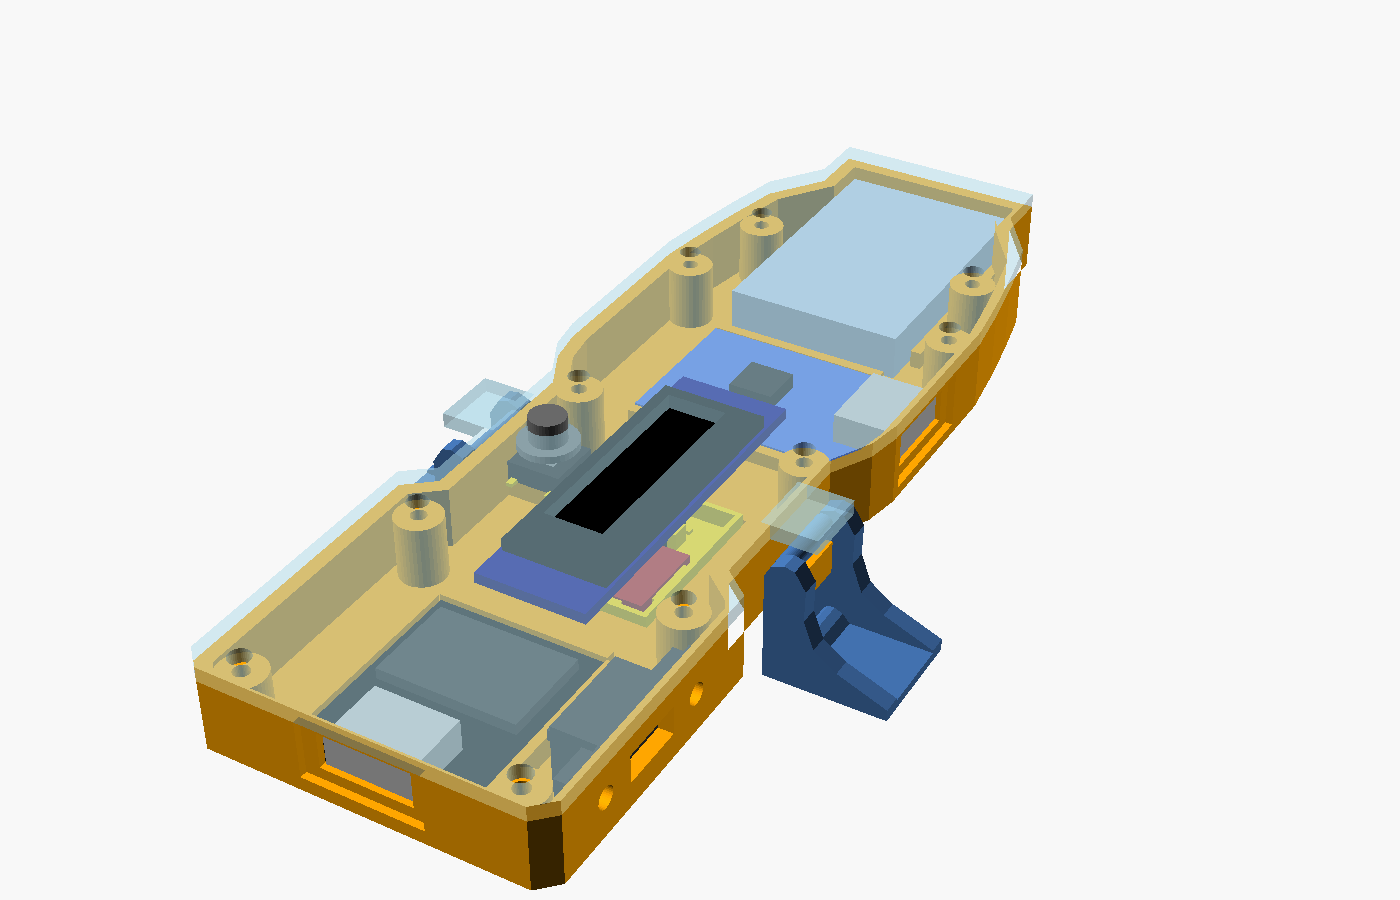
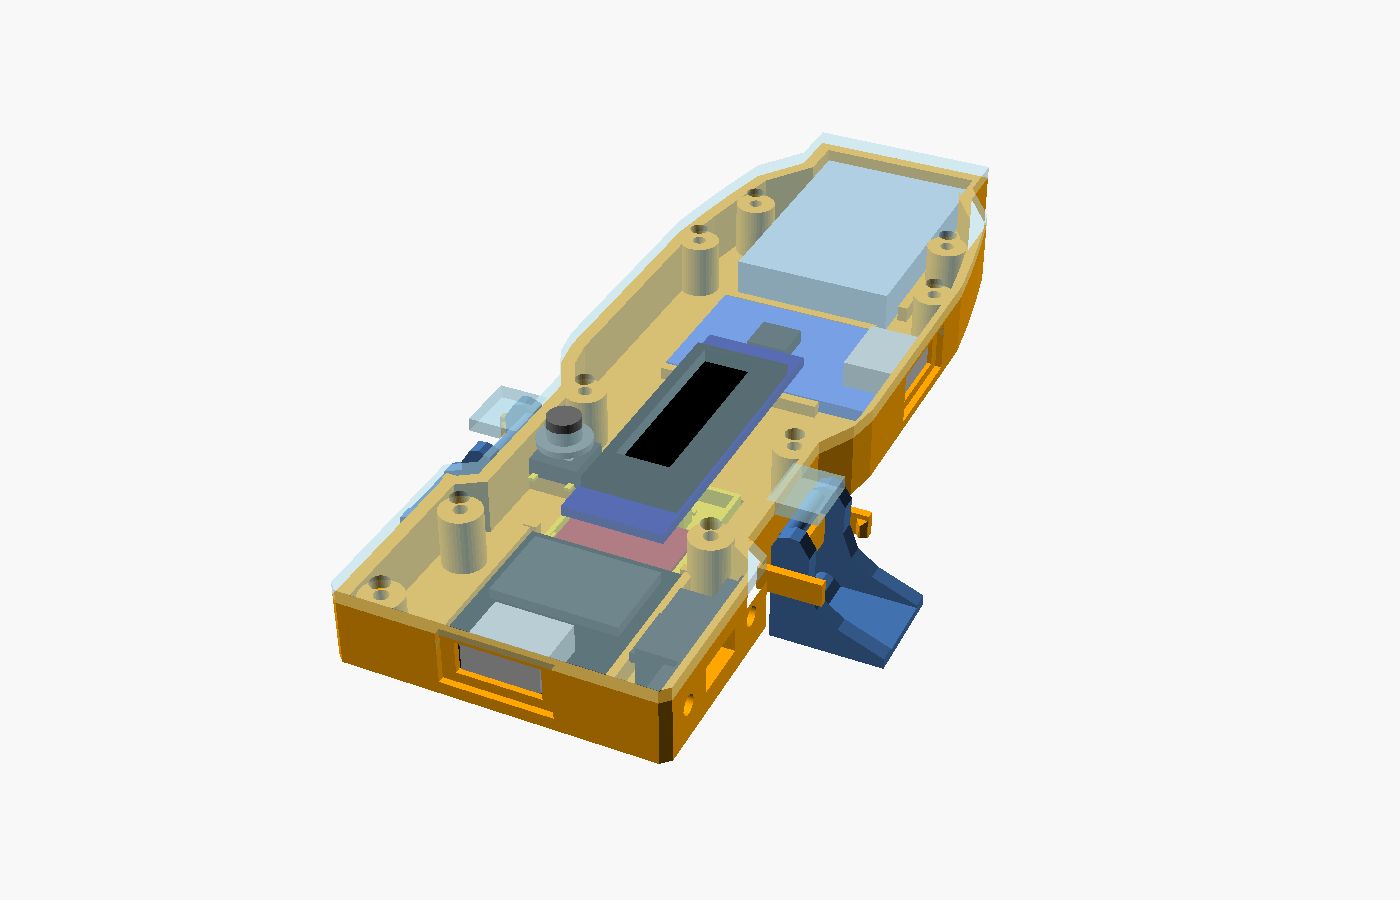
Documentazione: fermi delle clip e nuovo ingombro della scatola piatta

Changed region(s): [[0.1229, 0.1244, 0.7371, 0.9956]]

diff --git a/docs/scatola-piatta.md b/docs/scatola-piatta.md
@@ -29,7 +29,7 @@ Quote riprese:
 - altezza della faccia inferiore e della fascia centrale che entra nell'incavo del launcher;
 - posizione del QRE1113 (Y 5,44) e del pistoncino (Y 13,05), e quota del cappuccio del tasto (Z 5,40);
 - posizione del perno delle clip e dei loro denti;
-- ingombro massimo: il corpo sta dentro la sagoma di Dragoon, così non tocca il launcher più del suo.
+- larghezza: il corpo non è più largo della sagoma di Dragoon. In lunghezza invece è spostato in avanti di circa 10 mm, così dietro resta a filo del launcher come il Battle Pass originale.
 
 Nel suo modello le due clip non sono simmetriche di circa 0,7 mm: ho usato la destra, specchiata. Perno e dente coincidono con quelli delle clip di LaunchLab, un secondo progetto indipendente.
 
@@ -50,16 +50,26 @@ Sopra il vassoio, sotto il coperchio, c'è l'**OLED** per il lungo, con i pin ve
 - **Tasto esterno:** va in parallelo al BOOT (GPIO9), quindi il firmware non cambia. Una pressione cambia pagina dell'OLED. Tenuto premuto mentre accendi, mette la scheda in modalità di programmazione: serve se un firmware sbagliato blocca la USB.
 - **LED:** con la scatola chiusa si vedono attraverso due zone sottili del coperchio, spesse 0,6 mm, ma solo se il coperchio è stampato in un filamento chiaro. Le zone sono larghe perché la posizione dei LED cambia da scheda a scheda.
 
+## Fermi delle clip
+
+Come nel Battle Pass originale, la clip chiusa è trattenuta a scatto. Ai lati di ogni clip escono dal fianco due **dita elastiche** con un dentino:
+
+1. chiudendo, il braccio della clip spinge da parte il dentino e lo supera, e il dito flette di 0,3 mm;
+2. a clip chiusa il dito torna dritto e il dentino resta davanti al braccio;
+3. per aprire, la spinta del pollice sulla linguetta deve di nuovo far flettere il dito.
+
+A flettere è il dito, sottile apposta (1 mm), non la clip. Da chiusa la clip ha circa 3° di gioco prima di toccare il dentino. Se lo scatto risulta troppo duro o troppo morbido si cambiano `detent_bite` (quanto entra il dentino) e `detent_t` (spessore del dito).
+
 ## Verso di montaggio
 
 Sul launcher la finestrella del disco è più vicina alla corda, il foro del pistoncino più lontano. Il corpo si monta quindi con la **parte corta e la USB-C della SuperMini verso la corda** e la **parte lunga con la LiPo verso il fondo** del launcher.
 
 | Dal pistoncino verso | Launcher (stima dalle foto) | Corpo | Sporgenza |
 | --- | --- | --- | --- |
-| Corda | circa 36 mm | 46 mm | circa 10 mm |
-| Fondo | circa 62 mm | 67,5 mm | circa 5 mm |
+| Corda | circa 36 mm | 36 mm | a filo |
+| Fondo | circa 62 mm | 77 mm | circa 15 mm |
 
-Le misure del launcher sono ricavate da una foto, usando come scala i 7,6 mm tra finestrella e pistoncino: l'errore è di qualche mm. La corda esce circa 20 mm sotto la faccia superiore, quindi la sporgenza dovrebbe passare sopra la maniglia a T.
+Le misure del launcher sono ricavate da una foto, usando come scala i 7,6 mm tra finestrella e pistoncino: l'errore è di qualche mm. **Misura sul tuo launcher** la distanza tra il centro del pistoncino e il bordo lato corda, e impostala in `rear_len`: il retro del corpo segue da solo.
 
 ![Launcher visto dal lato della corda, con finestrella e pistoncino nella fascia nera](../hardware/img/render_launcher.png)
 
@@ -97,19 +107,19 @@ Se qualcosa non va, si corregge e si ristampa lo spezzone.
 7. **Tasto esterno**: sulla torretta accanto al vassoio, cappuccio verso l'alto e piedini lungo il corpo, con una goccia di colla sotto. Due fili su due piedini che si collegano solo a tasto premuto.
 8. Salda i collegamenti come nella [guida](guida.md). Il tasto di presenza va tra GPIO5 e GND, il tasto esterno tra GPIO9 e GND.
 9. **OLED**: salda quattro fili direttamente alle piazzole, senza pettine, con i pin verso la SuperMini. Fissalo nella cornice del coperchio con il vetro contro la finestra e una goccia di colla sui bordi. SDA su GPIO6, SCL su GPIO7, alimentazione a 3V3.
-10. **Clip**: infila ognuna sul blocco della cerniera, con il dente verso il launcher.
+10. **Clip**: appoggia ognuna sul blocco della cerniera tenendola quasi orizzontale, con il dente verso il launcher, poi chiudila: deve scattare oltre i dentini dei fermi.
 11. **Cappuccio** nel foro del coperchio, con la flangia verso l'interno.
-12. **Coperchio** con **10 viti M2×6**. Le sue alette tengono il perno delle clip nella sede.
+12. **Coperchio** con **9 viti M2×6**. Le sue alette tengono il perno delle clip nella sede.
 
 ## Da controllare al primo pezzo stampato
 
-1. **Clip sul launcher.** È il punto più delicato: si devono agganciare e sganciare senza gioco. Sono due parti senza molla, come in Dragoon. Se ballano, si corregge `pivot` o il profilo del dente. Dalle foto le sedi laterali sono all'altezza del pistoncino, come le clip del modello, ma sono cornici sporgenti con una feritoia rettangolare: nei render la loro forma è solo dedotta.
+1. **Clip sul launcher.** Si devono agganciare e sganciare senza gioco. Nel primo spezzone, senza fermi, si sganciavano da sole: ora le tengono i fermi a scatto. Controlla che scattino e che restino chiuse anche capovolgendo e scuotendo. Dalle foto le sedi laterali sono all'altezza del pistoncino, come le clip del modello, ma sono cornici sporgenti con una feritoia rettangolare: nei render la loro forma è solo dedotta.
 2. **Tasto e pistoncino.** Il cappuccio è alla stessa quota di Dragoon. Con la trottola inserita il contatto deve risultare premuto (`presenza` in console): se non si chiude, tutti i lanci vengono scartati. Se la trottola entra a fatica, serve un tasto a bassa forza (circa 100 gf).
 3. **Altezza del cappuccio del tuo tasto:** `tact_h` e `tact_body`. La punta resta alla quota giusta da sola, entro i limiti controllati dagli `assert`.
 4. **Breakout QRE:** `qre_pcb` e `qre_h`. Largo 9 mm sta nello spazio con 0,1 mm di margine verso il tasto: se è più largo, un `assert` lo segnala.
 5. **Presa:** il corpo è lungo e piatto come quello di Dragoon, ma la comodità va provata in mano.
 6. **Interruttore:** passo dei fori e corsa della leva sono stimati, come nell'altra scatola (`sf_pitch`, `sf_travel`).
-7. **Maniglia a T:** a corda riavvolta non deve toccare la sporgenza con la USB-C.
+7. **Retro a filo:** il corpo deve finire al bordo del launcher lato corda, e la maniglia a T riavvolta non deve toccare la parete con la USB-C. Se sporge o rientra, correggi `rear_len`.
 8. **OLED:** misura il modulo (`oled_pcb`, `oled_glass`) e dov'è l'area visibile (`oled_win_dy`), che spesso non è al centro del PCB. Se il testo risulta capovolto, si cambia una riga del firmware (`0xA1, 0xC8` in `oled_ui.cpp`).
 9. **LED:** verifica che si vedano attraverso le zone sottili. Se non si vedono, con la posizione vera del LED si può aprire un foro.
 10. **Tasto esterno:** la corsa è di 0,25 mm. Il cappuccio deve appoggiare sul tasto senza premerlo a riposo.
@@ -117,6 +127,7 @@ Se qualcosa non va, si corregge e si ristampa lo spezzone.
 ## Verifiche fatte a CAD
 
 - Corpo, vassoio, coperchio e clip sono ognuno un solido unico.
-- Nessuna collisione tra QRE, tasti, cappuccio, OLED, SuperMini, TP4056, LiPo, interruttore, corpo, vassoio e coperchio, sia con `oled = true` sia con `oled = false`.
-- La clip ruota di 15° verso l'esterno senza toccare corpo e coperchio.
-- La pianta del corpo sta dentro quella di Dragoon, con al massimo 0,3 mm di sporgenza locale.
+- Nessuna collisione tra QRE, tasti, cappuccio, OLED, SuperMini, TP4056, LiPo, interruttore, corpo, vassoio e coperchio, con `oled = true` (dopo lo spostamento in avanti non è stato ricontrollato `oled = false`).
+- Fermi: la clip è libera da chiusa e fino a 3° di apertura, dal 4° tocca il dentino. Verso i 75° si libera di nuovo: è l'angolo per montarla.
+- Il coperchio non tocca le dita dei fermi.
+- Lo spezzone stampato (senza fermi) ha confermato aggancio, finestrella e posizione del pistoncino.

diff --git a/CLAUDE.md b/CLAUDE.md
@@ -69,7 +69,10 @@ hardware/           BOM.md (distinta base ufficiale), README.md (montaggio, base
 .github/workflows/  build.yml (test + firmware + release su tag v*), pages.yml, _firmware.yml (riutilizzabile)
 ```
 
-## Stato (09/11/2026)
+## Stato (17/11/2026)
+
+Prima stampa dello spezzone (PLA, Bambu P2S): aggancio, finestrella, pistoncino e tasto tornano; le clip senza ritenzione si sganciavano. Aggiunti i **fermi a scatto** (`detents`, dita elastiche ai lati delle clip, come nel Battle Pass) e il corpo è stato **spostato in avanti**: retro a filo del launcher lato corda (`rear_len` = 36, stima da misurare), 15 mm di sporgenza davanti. Da ristampare lo spezzone.
+
 
 Decisione: la **scatola piatta** (`spinlite_flat.scad`) è la versione attuale, verificata solo a CAD e mai stampata. Quote e idee da Dragoon (CC BY-NC-SA: niente geometria copiata, modelli non nel repo). Con `oled = true` (default) l'OLED sta sotto il coperchio, sopra il vassoio, senza alzare il corpo; il tasto esterno e' in parallelo al BOOT (GPIO9), quindi il firmware non cambia. `part = "prova"` stampa solo la zona centrale. Verso di montaggio, dalle foto di Mirko: la finestrella del disco è più vicina alla corda del pistoncino, quindi USB-C verso la corda e parte lunga verso il fondo.
 

diff --git a/hardware/BOM.md b/hardware/BOM.md
@@ -27,7 +27,7 @@ Lista ufficiale dei componenti, quella da cui partire per ordinare. La guida la 
 | --- | --- | --- | --- | --- | --- |
 | 11 | Filamento **PETG nero** | ~1 g | Vassoio del sensore: una plastica chiara e sottile fa passare la luce ambiente, e il sensore lavora a infrarossi. | da scegliere | – |
 | 12 | Filamento **PETG chiaro** | ~20 g | Corpo, coperchio, clip e cappuccio. Chiaro per vedere i LED attraverso le zone sottili del coperchio. Il PLA va bene per lo spezzone di prova (circa 7 g). | da scegliere | ~0,5 € |
-| 13 | Vite M2×6 a testa cilindrica | 12 | 10 chiudono il coperchio, 2 tengono l'interruttore. | da scegliere | – |
+| 13 | Vite M2×6 a testa cilindrica | 11 | 9 chiudono il coperchio, 2 tengono l'interruttore. | da scegliere | – |
 | 14 | Dado M2 | 2 | Dentro il corpo, sulle viti dell'interruttore. | da scegliere | – |
 
 Un kit assortito di viti M2 (circa 3-5 €) basta per molti dispositivi. Il costo per pezzo è trascurabile. I pezzi da stampare sono in `enclosure/spinlite_flat.scad`, e non serve nient'altro di stampato.

diff --git a/hardware/README.md b/hardware/README.md
@@ -30,6 +30,8 @@ Ingombro: circa 113 × 38 mm senza le clip, alta circa 10 mm sopra il launcher, 
 | --- | --- |
 | `oled` | `true` (default): finestra nel coperchio e cornice per il modulo. Non cambia l'altezza |
 | `oled_pcb`, `oled_glass`, `oled_win`, `oled_win_dy` | misure del tuo OLED e posizione dell'area visibile |
+| `rear_len` | distanza tra pistoncino e bordo del launcher lato corda: il retro del corpo va a filo (stima 36 mm, misurala) |
+| `detents`, `detent_t`, `detent_bite` | fermi a scatto delle clip: attivi, spessore del dito, quanto entra il dentino |
 | `btn`, `btn_x`, `btn_y` | tasto esterno in parallelo al BOOT |
 | `led_zones`, `led_t` | zone sottili del coperchio sopra i LED di SuperMini e TP4056 |
 | `tray_gap` | gioco per lato tra vassoio e apertura nel corpo |
